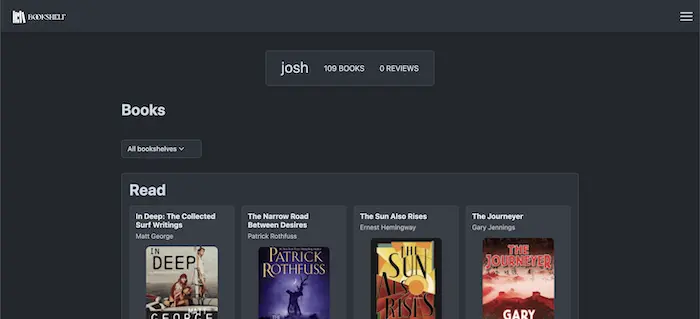
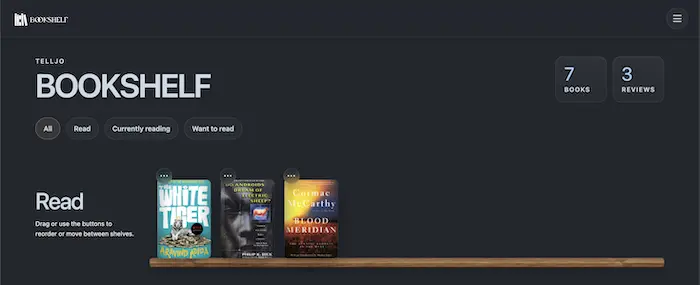
Update image for bookshelf site

diff --git a/src/app/pages/projects/projects.component.ts b/src/app/pages/projects/projects.component.ts
@@ -51,7 +51,7 @@ export class ProjectsComponent {
       title: 'Bookshelf',
       period: '2023 — Present',
       summary:
-        'A Goodreads-inspired side project built while exploring Hotwire, focused on streamlined book cataloguing, reviewing, and discovery.',
+        'A Goodreads-inspired side project built while exploring Hotwire, focused on streamlined book cataloguing, reviewing, and discovery. It also happens to be a catalogue of the books I have read and enjoyed over the last few years.',
       bullets: [
         'Created a practical learning project tailored to my own reading workflow.',
         'Explored Hotwire patterns through a complete end-to-end application.',